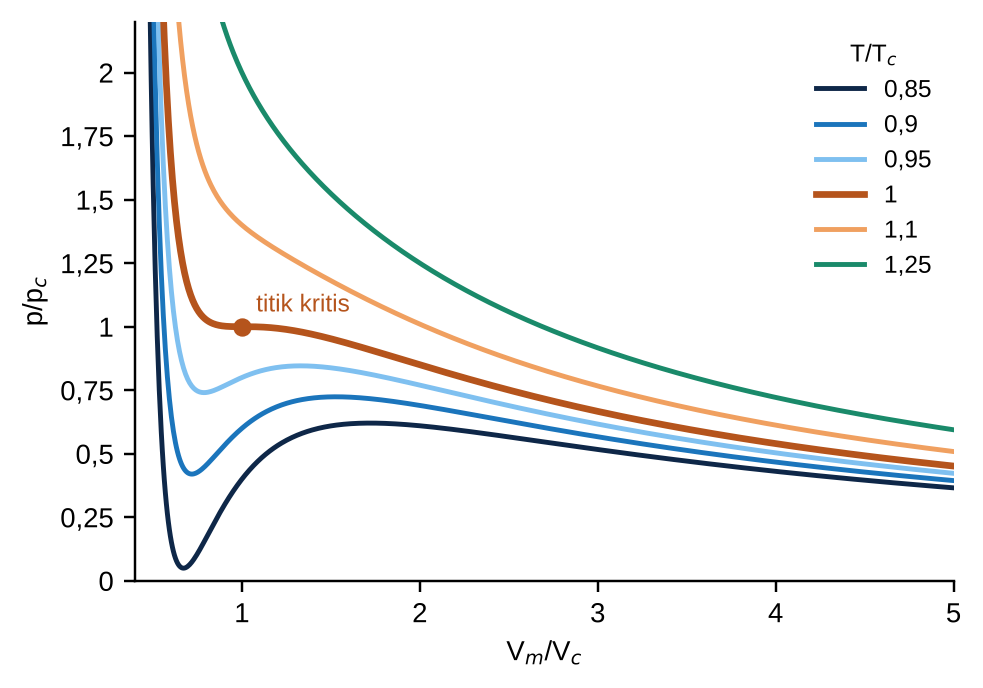
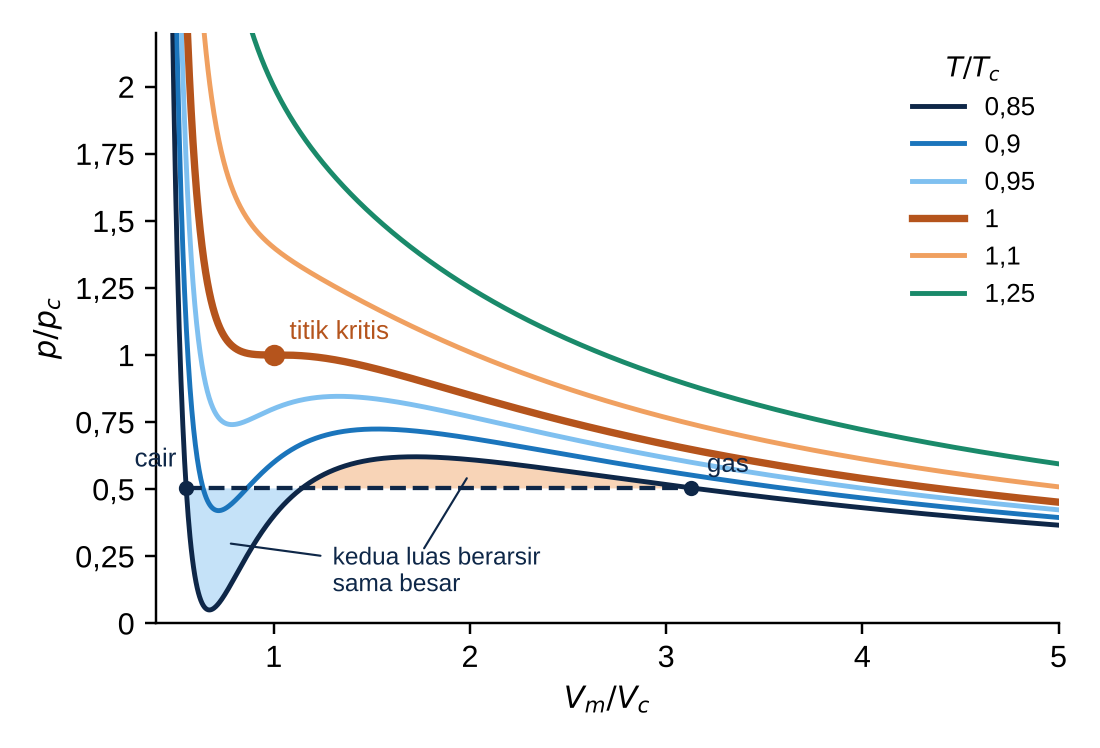
Termodinamika Kimia revisi high Bab 1-2: baca kritis, catatan 273,16/273,15 dan energi titik nol, Contoh 1.2 dikoreksi, Awas Z<1, Terapan tabung elpiji, konstruksi Maxwell digambar
Claude-Session: https://claude.ai/code/session_01G22JtSDjf1Vg7PR8hQ2uHS

diff --git a/termodinamika-kimia/alat/gambar/bab02.py b/termodinamika-kimia/alat/gambar/bab02.py
@@ -1,0 +1,42 @@
+# Gambar 2.3 (revisi 1.1): isoterm van der Waals tereduksi dengan konstruksi Maxwell
+import os, numpy as np, matplotlib
+matplotlib.use('Agg'); import matplotlib.pyplot as plt
+from matplotlib.ticker import FuncFormatter
+from scipy.optimize import brentq
+plt.rcParams.update({'font.family': 'Liberation Sans', 'font.size': 10, 'axes.spines.top': False, 'axes.spines.right': False, 'axes.unicode_minus': True})
+R = os.path.normpath(os.path.join(os.path.dirname(os.path.abspath(__file__)), '..', '..'))
+TUA, BIRU, MUDA, JG, JT, HJ = '#0e2748', '#1b75bc', '#7fc0f0', '#f0a060', '#b5541c', '#1a8a6a'
+kom = FuncFormatter(lambda x, p: f'{x:g}'.replace('.', ',').replace('-', '−'))
+pr = lambda V, T: 8 * T / (3 * V - 1) - 3 / V ** 2
+
+def maxwell(T):
+    def akar(p):
+        r = np.roots([3 * p, -(p + 8 * T), 9, -3]); r = np.sort(r[abs(r.imag) < 1e-9].real); return r[0], r[-1]
+    def selisih(p):
+        Vl, Vg = akar(p)
+        Vv = np.linspace(Vl, Vg, 4001); return np.trapezoid(pr(Vv, T) - p, Vv)
+    V = np.linspace(0.45, 5, 4000); P = pr(V, T); d = np.diff(P)
+    i1 = np.where((d[:-1] < 0) & (d[1:] > 0))[0][0]; i2 = np.where((d[:-1] > 0) & (d[1:] < 0))[0][0]
+    p = brentq(selisih, max(P[i1], 1e-4) + 1e-6, P[i2] - 1e-6); return p, akar(p)
+
+f, ax = plt.subplots(figsize=(5.0, 3.4), dpi=220)
+V = np.linspace(0.42, 5, 1500)
+warna = {0.85: TUA, 0.9: BIRU, 0.95: MUDA, 1.0: JT, 1.1: JG, 1.25: HJ}
+for T, c in warna.items():
+    ax.plot(V, pr(V, T), color=c, lw=2.4 if T == 1 else 1.6, label=f'{T:g}'.replace('.', ','))
+T = 0.85; p, (Vl, Vg) = maxwell(T)
+Vv = np.linspace(Vl, Vg, 800); P = pr(Vv, T)
+ax.fill_between(Vv, P, p, where=P < p, color=MUDA, alpha=0.45, lw=0)
+ax.fill_between(Vv, P, p, where=P > p, color=JG, alpha=0.45, lw=0)
+ax.plot([Vl, Vg], [p, p], color=TUA, lw=1.4, ls='--')
+ax.plot([Vl, Vg], [p, p], 'o', color=TUA, ms=4)
+ax.text(Vl - 0.05, p + 0.08, 'cair', ha='right', fontsize=8.5, color=TUA)
+ax.text(Vg + 0.08, p + 0.06, 'gas', fontsize=8.5, color=TUA)
+ax.annotate('kedua luas berarsir\nsama besar', (0.75, 0.3), (1.3, 0.12), fontsize=8, color=TUA, arrowprops=dict(arrowstyle='-', color=TUA, lw=0.7)); ax.annotate('', (2.0, 0.56), (1.75, 0.26), arrowprops=dict(arrowstyle='-', color=TUA, lw=0.7))
+ax.plot(1, 1, 'o', color=JT); ax.text(1.08, 1.06, 'titik kritis', color=JT, fontsize=8.5)
+ax.set_xlim(0.4, 5); ax.set_ylim(0, 2.2)
+ax.set_xlabel('$V_m/V_c$'); ax.set_ylabel('$p/p_c$')
+ax.xaxis.set_major_formatter(kom); ax.yaxis.set_major_formatter(kom)
+ax.legend(title='$T/T_c$', frameon=False, fontsize=8.5, title_fontsize=9)
+f.tight_layout(); f.savefig(f'{R}/bab02/fig/isoterm.png'); plt.close(f)
+print('p_uap tereduksi', p, 'V_cair', Vl, 'V_gas', Vg)

diff --git a/termodinamika-kimia/bab02/b-vdw.md b/termodinamika-kimia/bab02/b-vdw.md
@@ -86,9 +86,11 @@ Pada suhu tinggi, misalnya 50 °C, isoterm CO₂ mirip hiperbola Boyle, hanya se
 
 Apa yang diramalkan persamaan van der Waals untuk keadaan ini? Gambar 2.3 menunjukkan isoterm van der Waals pada beberapa suhu. Pada suhu tinggi, kurvanya mirip isoterm Andrews. Pada suhu rendah, kurvanya membentuk **lengkungan** naik-turun, sesuatu yang tidak pernah teramati pada gas yang setimbang: di bagian tengah lengkungan, tekanan naik bila volume diperbesar, dan zat yang seperti itu akan langsung runtuh.
 
-![Gambar 2.3 Isoterm van der Waals dalam variabel tereduksi (subbab 2.6). Di atas suhu kritis isotermnya mirip isoterm gas ideal. Di bawahnya muncul lengkungan; pada zat nyata, lengkungan itu diganti oleh garis mendatar pada tekanan uap, tempat gas dan cairan hidup berdampingan.](fig/isoterm.png){width=76%}
+![Gambar 2.3 Isoterm van der Waals dalam variabel tereduksi (subbab 2.6). Di atas suhu kritis isotermnya mirip isoterm gas ideal. Di bawahnya muncul lengkungan; pada zat nyata, lengkungan itu diganti oleh garis mendatar pada tekanan uap, tempat gas dan cairan hidup berdampingan. Pada isoterm 0,85, garis putus-putus adalah konstruksi Maxwell: kedua luas berarsir sama besar, dan kedua ujung garis memberi volume molar cairan dan gas.](fig/isoterm.png){width=76%}
 
-Lengkungan itu bukan kegagalan persamaan, melainkan petunjuk. Maxwell menunjukkan bahwa garis mendatar yang sebenarnya dapat ditarik melintasi lengkungan sedemikian rupa sehingga luas yang terpotong di atas garis sama dengan luas di bawahnya (**konstruksi Maxwell**). Ujung kiri garis itu adalah volume molar cairan, ujung kanannya volume molar gas. Persamaan van der Waals, yang dibangun dari gagasan tentang gas, ternyata juga mengandung cairan.
+Lengkungan itu bukan kegagalan persamaan, melainkan petunjuk. Maxwell menunjukkan cara mengganti lengkungan dengan garis mendatar yang sebenarnya. Garis itu ditarik pada tekanan yang membuat luas yang terpotong di atas garis sama dengan luas di bawahnya (**konstruksi Maxwell**; lihat isoterm 0,85 pada Gambar 2.3). Ujung kiri garis itu adalah volume molar cairan, ujung kanannya volume molar gas, dan tingginya adalah tekanan uap yang diramalkan persamaan van der Waals. Pada $T_\text{r} = 0{,}85$, tekanan uap itu $0{,}50\,p_\text{c}$.
+
+Mengapa luasnya harus sama? Alasan lengkapnya memerlukan energi Gibbs, yang baru kita kenal di Bab 7. Gas dan cairan hanya dapat setimbang bila energi Gibbs molarnya sama (subbab 8.2), dan untuk isoterm van der Waals syarat itu ternyata setara dengan dua luas yang sama. Untuk sekarang, cukup dipegang gambarannya: pada suhu tertentu, tinggi garis mendatar itu adalah satu-satunya tekanan tempat gas dan cairan dapat hidup berdampingan. Persamaan van der Waals, yang dibangun dari gagasan tentang gas, ternyata juga mengandung cairan.
 
 ::: {.contoh}
 **Contoh 2.5 · Tiga akar persamaan van der Waals**
@@ -167,6 +169,12 @@ dan $V_\text{c} = 3b = 0{,}128$ L mol⁻¹ $= 128$ cm³ mol⁻¹.
 **Memahami hasil.** Suhu dan tekanan kritis cocok sempurna, tetapi itu tidak mengherankan: *a* dan *b* dalam Tabel 2.1 memang dihitung dari $T_\text{c}$ dan $p_\text{c}$ dengan (2.6). Ujian yang jujur adalah volume kritis, yang tidak dipakai dalam perhitungan itu. Di sini persamaan van der Waals meleset 36% (128 dibanding 94 cm³ mol⁻¹). Persamaan van der Waals menangkap gambaran kualitatif dengan sangat baik, tetapi angkanya di sekitar titik kritis hanya kasar.
 :::
 
+::: {.terapan}
+**Tabung elpiji: gas yang dijual dalam bentuk cair.** Elpiji (LPG) adalah campuran propana dan butana. Suhu kritis keduanya jauh di atas suhu kamar (propana 369,8 K, butana 425,1 K), sehingga keduanya dapat dicairkan hanya dengan menekannya, seperti CO₂ di tabung pemadam. Pada 30 °C, tekanan uap propana murni sekitar 10,8 bar dan butana murni sekitar 2,8 bar. Tekanan di dalam tabung elpiji terletak di antara keduanya, bergantung pada komposisinya (subbab 10.2 menghitungnya dengan hukum Raoult). Dalam bentuk cair, isi tabung 3 kg cukup kecil untuk dijinjing; sebagai gas pada 1 bar dan 25 °C, isi yang sama menempati sekitar 1,5 m³.
+
+Isoterm Andrews (subbab 2.4) menjelaskan dua hal yang dikenal setiap orang yang memasak. Pertama, selama masih ada cairan di dalam tabung, tekanannya hampir tidak berubah sampai isinya nyaris habis, karena keadaan di dalam tabung berada di garis mendatar isoterm. Karena itu pengukur tekanan tidak dapat memberi tahu sisa isi tabung; cara yang benar adalah menimbangnya. Kedua, bila kompor menyala besar terus-menerus, dinding tabung terasa dingin dan kadang berembun, karena cairan yang menguap menyerap kalor (subbab 4.4). Tabung juga tidak pernah diisi penuh dengan cairan. Cairan memuai bila dipanaskan, dan tanpa ruang uap tekanan di dalam tabung tertutup akan naik sangat tajam.
+:::
+
 ::: {.kuis}
 **Kuis cepat 2.5** Suhu kritis NH₃ adalah 405,5 K. Dapatkah amonia dicairkan pada suhu kamar hanya dengan menekannya? Bagaimana dengan metana ($T_\text{c} = 190{,}6$ K)?
 :::
@@ -198,7 +206,7 @@ Ada satu ujian sederhana. Pada titik kritis, faktor kompresi $Z_\text{c} = p_\te
 
 **Penyelesaian.** (a) N₂: $T = 2{,}0 \times 126{,}2 = 252$ K, $p = 2{,}0 \times 34{,}0 = 68$ bar. CO₂: $T = 608$ K, $p = 148$ bar.
 
-(b) Persamaan (2.8) dengan $T_\text{r} = p_\text{r} = 2{,}0$ diselesaikan untuk $V_\text{r}$, memberi $V_\text{r} = 2{,}48$. Karena $Z = p_\text{r}V_\text{r}Z_\text{c}/T_\text{r}$ dengan $Z_\text{c} = 3/8$ menurut van der Waals, $Z = (2{,}0)(2{,}48)(0{,}375)/2{,}0 = 0{,}93$, sama untuk kedua gas.
+(b) Persamaan (2.8) dengan $T_\text{r} = p_\text{r} = 2{,}0$ diselesaikan untuk $V_\text{r}$, memberi $V_\text{r} = 2{,}48$. Faktor kompresinya diperoleh dengan mengganti setiap variabel dengan variabel tereduksinya: $Z = pV_\text{m}/RT = (p_\text{r}p_\text{c})(V_\text{r}V_\text{c})/(RT_\text{r}T_\text{c}) = Z_\text{c}\,p_\text{r}V_\text{r}/T_\text{r}$. Dengan $Z_\text{c} = 3/8$ menurut van der Waals, $Z = (2{,}0)(2{,}48)(0{,}375)/2{,}0 = 0{,}93$, sama untuk kedua gas.
 
 **Memahami hasil.** Nitrogen pada 252 K dan 68 bar dan CO₂ pada 608 K dan 148 bar tampak sebagai keadaan yang sama sekali berbeda, tetapi keduanya menyimpang dari perilaku ideal dengan cara yang sama. Itulah kekuatan hukum keadaan sehubungan: data satu gas dapat dipakai untuk meramalkan perilaku gas lain.
 :::

diff --git a/termodinamika-kimia/bab01/c-kinetik.md b/termodinamika-kimia/bab01/c-kinetik.md
@@ -41,9 +41,13 @@ $$
 **Suhu adalah ukuran energi kinetik translasi rata-rata molekul.** Energi itu hanya bergantung pada suhu, tidak pada jenis gas.
 :::
 
-Inilah jawaban atas pertanyaan pembuka yang pertama. Termometer mengukur seberapa keras rata-rata molekul bergerak, dan nol mutlak adalah keadaan ketika gerak translasi itu berhenti. Persamaan (1.15) juga menjelaskan asas Avogadro: pada suhu yang sama, molekul hidrogen yang ringan dan molekul iodin yang berat membawa energi kinetik rata-rata yang sama, sehingga *N* molekul dari gas mana pun memberikan tekanan yang sama pada volume yang sama.
+Inilah jawaban atas pertanyaan pembuka yang pertama. Termometer mengukur seberapa keras rata-rata molekul bergerak, dan nol mutlak adalah keadaan ketika gerak translasi itu berhenti.
 
-Dari (1.15) kita juga dapat menghitung kelajuan molekul. Akar dari rata-rata kuadrat kelajuan, disebut **kelajuan rms** (*root mean square*), adalah
+Gambaran terakhir ini klasik, dan mekanika kuantum mengoreksinya sedikit. Partikel yang terkurung tidak pernah dapat diam sempurna di satu tempat, karena asas ketidakpastian melarangnya. Akibatnya, bahkan pada 0 K atom-atom dalam kristal masih bergetar dengan **energi titik nol** (*Kimia Kuantum*, subbab 5.4). Pada nol mutlak, zat berada di keadaan energi terendahnya, sehingga tidak ada lagi energi yang dapat diambil darinya sebagai kalor; tetapi keadaan terendah itu bukan keadaan diam. Untuk gas pada suhu biasa, koreksi ini sangat kecil, dan persamaan (1.15) tetap berlaku.
+
+Persamaan (1.15) juga menjelaskan asas Avogadro: pada suhu yang sama, molekul hidrogen yang ringan dan molekul iodin yang berat membawa energi kinetik rata-rata yang sama, sehingga *N* molekul dari gas mana pun memberikan tekanan yang sama pada volume yang sama.
+
+Dari (1.15) kita juga dapat menghitung kelajuan molekul. Bentuk pertama (1.15) memberi $\langle v^2\rangle = 3kT/m$. Mengalikan pembilang dan penyebutnya dengan $N_\text{A}$ mengubah $kN_\text{A}$ menjadi *R* dan $mN_\text{A}$ menjadi massa molar *M*. Akar dari rata-rata kuadrat kelajuan, disebut **kelajuan rms** (*root mean square*), adalah
 
 $$
 v_\text{rms} = \sqrt{\langle v^2\rangle} = \sqrt{\frac{3RT}{M}} , \qquad \text{(1.16)}
@@ -71,7 +75,7 @@ Untuk He, $M = 0{,}004\,003$ kg mol⁻¹, dan $v_\text{rms} = 1363$ m s⁻¹. En
 
 ## 1.8 Kelajuan molekul dan sebaran Maxwell–Boltzmann
 
-Kelajuan rms adalah rata-rata, tetapi molekul-molekul gas tidak bergerak dengan kelajuan yang sama. Setiap tumbukan mengubah kelajuan molekul yang bertabrakan: yang satu dipercepat, yang lain diperlambat. Akibatnya, pada setiap saat ada molekul yang hampir diam, ada yang sangat cepat, dan kebanyakan di antaranya. Seperti apa sebaran itu?
+Kelajuan rms adalah rata-rata, tetapi molekul-molekul gas tidak bergerak dengan kelajuan yang sama. Setiap tumbukan mengubah kelajuan molekul yang bertabrakan: yang satu dipercepat, yang lain diperlambat. Akibatnya, pada setiap saat ada molekul yang hampir diam, ada yang sangat cepat, dan kebanyakan berada di antara keduanya. Seperti apa sebaran itu?
 
 James Clerk Maxwell menurunkannya pada 1860, dan Ludwig Boltzmann kemudian memberinya dasar yang lebih umum. Hasilnya, peluang menemukan molekul dengan kelajuan antara *v* dan $v + dv$ adalah $f(v)\,dv$, dengan
 
@@ -184,7 +188,7 @@ $$
 \sigma = \pi d^2 , \qquad \text{(1.21)}
 $$
 
-yang disebut **penampang lintang tumbukan**. Setiap molekul lain yang pusatnya berada di dalam silinder itu akan tertabrak. Dalam satu detik, silinder itu memanjang sejauh kelajuan relatif rata-rata molekul terhadap molekul lain, $v_\text{rel} = \sqrt2\,\bar v$ (lebih besar dari $\bar v$, karena molekul lain juga bergerak). Mengalikan volume yang disapu per detik dengan banyaknya molekul per volume menghasilkan **frekuensi tumbukan**:
+yang disebut **penampang lintang tumbukan**. Setiap molekul lain yang pusatnya berada di dalam silinder itu akan tertabrak. Dalam satu detik, silinder itu memanjang sejauh kelajuan relatif rata-rata molekul terhadap molekul lain, $v_\text{rel} = \sqrt2\,\bar v$ (lebih besar dari $\bar v$, karena molekul lain juga bergerak). Mengalikan volume yang disapu per detik dengan banyaknya molekul per volume, $N/V = p/kT$ (persamaan gas ideal per molekul), menghasilkan **frekuensi tumbukan**:
 
 $$
 z = \sigma v_\text{rel}\frac{N}{V} = \frac{\sqrt2\,\sigma\bar vp}{kT} . \qquad \text{(1.22)}

diff --git a/termodinamika-kimia/bab01/a-gas.md b/termodinamika-kimia/bab01/a-gas.md
@@ -91,20 +91,22 @@ $$
 \theta/{}^\circ\text{C} = T/\text{K} - 273{,}15 . \qquad \text{(1.2)}
 $$
 
+Perhatikan dua angka yang mirip: 273,16 di (1.1) dan 273,15 di (1.2). Keduanya bukan salah ketik. Titik acuan skala kelvin adalah titik tripel air, yang ditetapkan 273,16 K. Titik nol skala Celsius adalah titik beku air pada tekanan 1 atm, yang sedikit lebih rendah, yaitu 273,15 K. Jadi titik tripel air terletak pada 0,01 °C. (Sejak 2019, kelvin didefinisikan melalui nilai tetap tetapan Boltzmann, tetapi kedua angka ini tetap berlaku dalam ketelitian laboratorium biasa.)
+
 Persamaan (1.1) juga menjelaskan mengapa ada **nol mutlak**. Tekanan gas tidak mungkin negatif, sehingga suhu termodinamika tidak mungkin di bawah nol. Gambaran molekul yang akan kita turunkan di subbab 1.7 memberi alasannya: suhu mengukur energi kinetik rata-rata molekul, dan energi kinetik tidak dapat lebih kecil dari nol.
 
 ::: {.contoh}
 **Contoh 1.2 · Termometer gas bervolume tetap**
 
-Sebuah termometer gas bervolume tetap menunjukkan tekanan 26,66 kPa ketika dicelupkan ke dalam sel titik tripel air. Ketika dicelupkan ke dalam air yang sedang mendidih, tekanannya 36,53 kPa. Berapa suhu air mendidih itu dalam kelvin dan derajat Celsius?
+Sebuah termometer gas bervolume tetap menunjukkan tekanan 26,66 kPa ketika dicelupkan ke dalam sel titik tripel air. Di sebuah laboratorium di Bandung, termometer itu dicelupkan ke dalam air yang sedang mendidih, dan tekanannya menjadi 36,17 kPa. Berapa suhu air mendidih itu dalam kelvin dan derajat Celsius?
 
 **Penyelesaian.** Dari persamaan (1.1):
 $$
-T = 273{,}16\ \text{K} \times \frac{36{,}53\ \text{kPa}}{26{,}66\ \text{kPa}} = 374{,}3\ \text{K} .
+T = 273{,}16\ \text{K} \times \frac{36{,}17\ \text{kPa}}{26{,}66\ \text{kPa}} = 370{,}6\ \text{K} .
 $$
-Dalam Celsius: $374{,}3 - 273{,}15 = 101{,}1$ °C.
+Dalam Celsius: $370{,}6 - 273{,}15 = 97{,}5$ °C.
 
-**Memahami hasil.** Air pada tekanan 1 atm mendidih pada 100,0 °C. Selisih 1,1 °C ini bukan salah hitung: tekanan awal 26,66 kPa belum cukup rendah, sehingga gas di dalam termometer belum berperilaku ideal sepenuhnya. Ahli termometri mengukur pada beberapa tekanan awal yang makin kecil, lalu mengekstrapolasi hasilnya ke tekanan nol. Penyimpangan gas dari perilaku ideal inilah pokok bahasan Bab 2.
+**Memahami hasil.** Air mendidih pada 100 °C hanya bila tekanan di atasnya 1 atm. Bandung terletak sekitar 770 m di atas permukaan laut, dan tekanan udaranya hanya sekitar 92 kPa, sehingga air sudah mendidih pada sekitar 97,5 °C. Subbab 8.4 akan menghitung pergeseran titik didih ini. Gas di dalam termometer juga tidak sepenuhnya ideal, tetapi pada tekanan serendah 27 kPa koreksinya hanya beberapa perseratus kelvin. Untuk ketelitian tertinggi, ahli termometri mengulang pengukuran pada tekanan awal yang makin kecil, lalu mengekstrapolasi hasilnya ke tekanan nol. Penyimpangan gas dari perilaku ideal inilah pokok bahasan Bab 2.
 :::
 
 ::: {.kuis}

diff --git a/termodinamika-kimia/REVISI.md b/termodinamika-kimia/REVISI.md
@@ -198,6 +198,7 @@ Isi setiap sesi: tanggal, bab, ringkasan perubahan, angka yang dikoreksi.
 | 20-11-2026 | 1, 3, 4, 5, 6, 7 (medium) | Gambar baru: molekul memantul (1.7), piston berpasir (3.3), bom kalorimeter (4.3), siklus Clausius dipetak (5.6), entropi pencampuran (6.3), kotak termodinamika (7.6). Kalimat penjelas yang menyertai: tumbukan antarmolekul (1.7), asal tekanan 2,48/1,65/1,24 bar dan gambaran pasir (3.3), tahap adiabatik q = 0 (5.6). K4 ditepati: dS(T,V) dan dS(T,p) umum di 7.6. Contoh baru 7.1 (entropi total vs energi Gibbs). |
 | 20-11-2026 | 1–6 (medium, P4) | Semua jawaban numerik soal Bab 1–6 dihitung ulang dengan Python: cocok (selisih hanya pembulatan, mis. Soal 2.19 memakai b = 0,04267). Bab 7–13 sudah dihitung saat ditulis. |
 | 20-11-2026 | lampiran (medium) | Kepala lampiran diganti gaya kepala bab (LAMPIRAN kecil, huruf besar, judul kapital di kanan), juga di *Kimia Kuantum* dan *Fisika Umum*. Tabel panjang boleh menyambung halaman dengan kepala tabel diulang (menghapus halaman setengah kosong di lampiran). |
+| 20-11-2026 | 1–2 (high) | Baca kritis seluruh subbab. Bab 1: catatan 273,16 vs 273,15 (1.2); Contoh 1.2 dikoreksi (selisih 1,1 °C dulu dijelaskan sebagai ketakidealan gas, padahal pada 27 kPa efeknya hanya ±0,07 K; kini data laboratorium di Bandung, titik didih 97,5 °C karena tekanan udara); catatan energi titik nol (1.7, rujuk *Kimia Kuantum* 5.4); asal $v_\text{rms} = \sqrt{3RT/M}$ dari (1.15) dan $N/V = p/kT$ di (1.22) dijelaskan; satu kalimat janggal di 1.8. Bab 2: kotak Awas *Z* < 1 (2.2); kotak Terapan tabung elpiji (2.5; tekanan uap propana/butana 30 °C dihitung dari persamaan Antoine); konstruksi Maxwell dijelaskan dan digambar di Gambar 2.3 (garis putus-putus, dua luas berarsir; `alat/gambar/bab02.py`); langkah $Z = Z_\text{c}p_\text{r}V_\text{r}/T_\text{r}$ di Contoh 2.7. |
 
 ### Sisa pekerjaan untuk sesi high (belum dikerjakan)
 

diff --git a/termodinamika-kimia/bab02/a-nyata.md b/termodinamika-kimia/bab02/a-nyata.md
@@ -93,6 +93,10 @@ Suku $r^{-6}$ bertanda negatif adalah tarikan dispersi, yang melemah perlahan de
 
 Sekarang pola Gambar 2.1 dapat dipahami. Pada tekanan sedang, molekul-molekul rata-rata berada di daerah tarikan, cukup dekat untuk saling merasakan, tetapi jarang sampai bertabrakan keras. Tarikan membuat gas lebih mudah dimampatkan, dan $Z < 1$. Pada tekanan tinggi, molekul-molekul terdesak sampai ke daerah tolakan, sehingga ukuran molekul yang terbatas menjadi penentu, dan $Z > 1$. Gas yang tarikannya kuat (ε besar), seperti CO₂, menunjukkan cekungan yang dalam. Gas yang tarikannya sangat lemah, seperti helium, praktis hanya merasakan tolakan, sehingga *Z* langsung naik.
 
+::: {.awas}
+***Z* < 1 tidak berarti molekulnya mengecil.** Ukuran molekul CO₂ pada 40 bar sama dengan ukurannya pada 1 bar. Yang berubah adalah peran tarikan. Molekul yang sedang menuju dinding ditarik ke belakang oleh tetangganya, sehingga tumbukannya lebih lemah, dan pada volume yang sama tekanannya lebih kecil. Sebaliknya, *Z* > 1 tidak berarti molekul saling mendorong dari jauh. Artinya, sebagian ruang di dalam wadah sudah ditempati molekul itu sendiri, sehingga ruang geraknya lebih sempit daripada *V*. Kedua gagasan ini akan menjadi tetapan *a* dan *b* di subbab 2.3.
+:::
+
 ::: {.contoh}
 **Contoh 2.2 · Seberapa kuat tarikan antaratom argon?**
 
